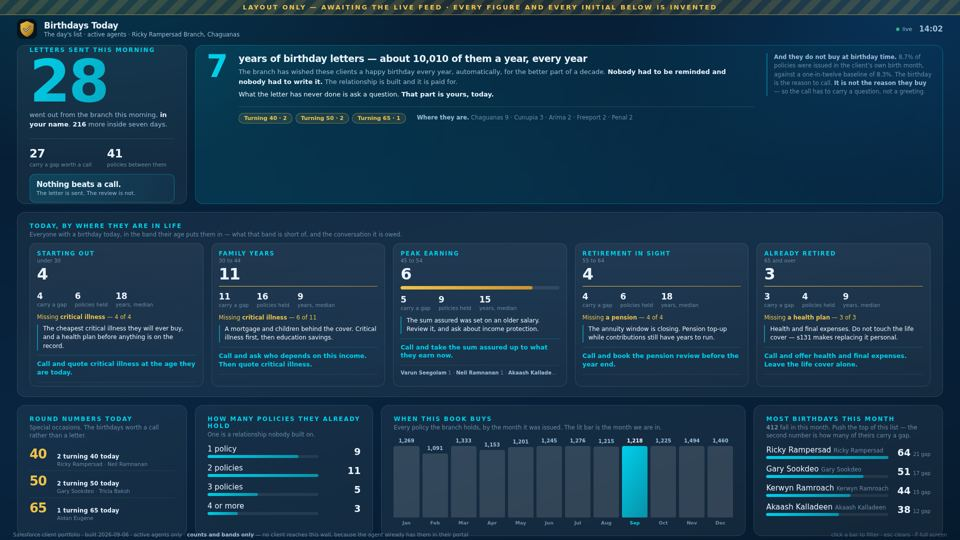
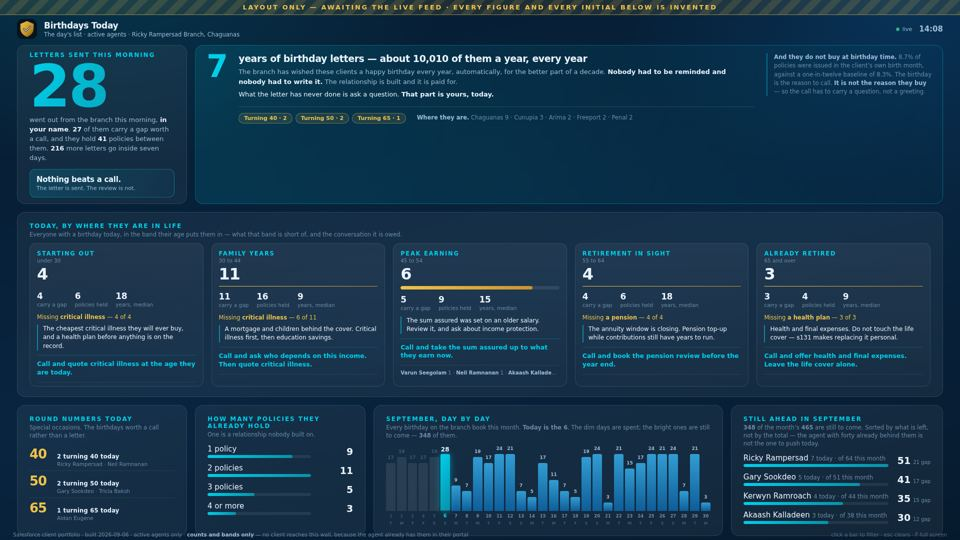
Make the horizon today and the rest of the month, day by day
The twelve-month graph is gone. The branch's horizon is not the year: an agent
standing in front of the screen on the sixth wants to know what today is and
what is left before the month runs out, and January to December answers neither.

THE MONTH, DAY BY DAY. One column per day, taken from the month itself so the
thirty first of a long month is never silently dropped. Spent days are dimmed
rather than removed, because the shape of a month half gone is the point of
looking at it. Today is lit. The days ahead are the runway, and the caption
counts them — three hundred and forty eight still to come out of the month's
four hundred and sixty five. Weekday letters underneath, so a Saturday reads as
a Saturday.

AND THE LEADERBOARD SORTS BY WHAT IS LEFT, not by the month's total. The agent
with forty birthdays already behind them is not the one to push today. Each row
now carries three things: how many are still to come, how many of those are
today, and the month's total behind it.

Also dropped: the two stats in the hero. Every band card says how many carry a
gap and how many policies they hold, so the hero was repeating the wall back to
itself; it says it once now, in the sentence about this morning's letters.

ONE BUG THE RENDER CAUGHT. The hero was announcing that twenty eight clients
hold 0 policies between them — the total was being read one line above where it
was assigned, and var hoists, so it printed the confident zero rather than
[…]

diff --git a/intelligence/wall/book.html b/intelligence/wall/book.html
@@ -267,16 +267,27 @@
   .years .yfind b{color:var(--dim);font-weight:600}
 
   /* twelve months, as a strip rather than twelve rows */
-  .mrows{display:grid;grid-template-columns:repeat(12,1fr);gap:6px;align-items:end;
+  /* A DAY STRIP, NOT A YEAR. The wall's horizon is today and the rest of this
+     month: an agent standing in front of it on the sixth wants to know what
+     today is and what is left before the month runs out. Thirty one columns
+     rather than twelve, spent days dimmed, today lit — so the runway is the
+     bright part of the picture and the part already gone is visibly gone. */
+  .mrows{display:grid;grid-auto-flow:column;grid-auto-columns:1fr;gap:3px;align-items:end;
     flex:1;min-height:0;padding-top:4px}
   .mcol{display:flex;flex-direction:column;justify-content:flex-end;height:100%;gap:5px}
-  .mcol .bar{background:rgba(255,255,255,.13);border-radius:4px 4px 2px 2px;min-height:3px}
-  .mcol.now .bar{background:var(--grad-teal)}
-  .mcol .ml{font:600 9.5px var(--font-b);color:var(--faint);text-align:center}
-  .mcol.now .ml{color:var(--teal);font-weight:800}
-  .mcol .mv{font:700 10px var(--font-d);color:var(--dim);text-align:center;
+  .mcol .bar{background:linear-gradient(180deg,rgba(55,177,236,.85),rgba(11,127,212,.6));
+    border-radius:3px 3px 1px 1px;min-height:2px}
+  .mcol.past .bar{background:rgba(255,255,255,.09)}
+  .mcol.now .bar{background:var(--grad-teal);box-shadow:0 0 14px rgba(0,207,234,.5)}
+  .mcol .ml{font:600 8.5px var(--font-b);color:var(--faint);text-align:center;
     font-variant-numeric:tabular-nums}
-  .mcol.now .mv{color:var(--ink)}
+  .mcol.past .ml{opacity:.38}
+  .mcol.now .ml{color:var(--teal);font-weight:800;font-size:10px}
+  .mcol .mv{font:700 9px var(--font-d);color:var(--dim);text-align:center;
+    font-variant-numeric:tabular-nums;min-height:11px}
+  .mcol.past .mv{opacity:.30}
+  .mcol.now .mv{color:var(--ink);font-size:12px}
+  .mcol .dw{font:600 7.5px var(--font-b);color:var(--faint);text-align:center;opacity:.5}
 
   /* FIVE BANDS ACROSS, ALWAYS THE SAME FIVE. An empty band is drawn dim rather
      than dropped: panels that move around from day to day cannot be read at a
@@ -442,10 +453,6 @@
     <h3 id="heroKick">Letters sent this morning</h3>
     <div class="big" id="heroN">&mdash;</div>
     <div class="cap2" id="heroCap"></div>
-    <div class="split">
-      <div><div class="v" id="heroGap">&mdash;</div><div class="k">carry a gap worth a call</div></div>
-      <div><div class="v" id="heroPol">&mdash;</div><div class="k">policies between them</div></div>
-    </div>
     <div class="callout">Nothing beats a call.<span>The letter is sent. The review is not.</span></div>
   </section>
 
@@ -479,12 +486,11 @@
     <p class="cap">One is a relationship nobody built on.</p>
     <div class="rows" id="rPol"></div></section>
 
-  <section class="card season"><h3>When this book buys</h3>
-    <p class="cap">Every policy the branch holds, by the month it was issued. The lit bar
-      is the month we are in.</p>
-    <div class="mrows" id="rSeason"></div></section>
+  <section class="card season"><h3 id="dHead">The month, day by day</h3>
+    <p class="cap" id="dCap"></p>
+    <div class="mrows" id="rDays"></div></section>
 
-  <section class="card month"><h3>Most birthdays this month</h3>
+  <section class="card month"><h3 id="mHead">Still ahead this month</h3>
     <p class="cap" id="monthCap"></p>
     <div class="rows" id="rMonth"></div></section>
 </main>
@@ -607,7 +613,7 @@ function paint(){
       + 'workbook carries them.';
     $("#bMiles").innerHTML=''; $("#heroWhere").innerHTML='';
     $("#yFind").innerHTML='';
-    ["#rPol","#rSeason","#rMonth","#mList"].forEach(function(x){ $(x).innerHTML=""; });
+    ["#rPol","#rDays","#rMonth","#mList"].forEach(function(x){ $(x).innerHTML=""; });
     $("#monthCap").textContent="";
     $("#cList").innerHTML='<p class="none">Set the Salesforce credentials in '
       + '<b>SalesforceSync.gs</b>, deploy the script, and paste the <b>/exec</b> URL into '
@@ -622,11 +628,15 @@ function paint(){
   $("#heroKick").textContent="Letters sent this morning";
   $("#heroN").style.cssText="";
   $("#heroN").textContent=n(T.n);
+  /* Computed before it is read. It was declared below this line and var hoists,
+     so the wall confidently reported that twenty eight clients hold 0 policies
+     between them — which is the kind of wrong a wall states with a straight
+     face. */
+  var polN=(T.bands||[]).reduce(function(a,b){ return a+(b.policies||0); },0);
   $("#heroCap").innerHTML='went out from the branch this morning, <b>in your name</b>. '
-    + '<b>'+n(T.week)+'</b> more inside seven days.';
-  $("#heroGap").textContent=n(T.withGap);
-  var pol=(T.policiesHeld||[]).reduce(function(a,x){ return a+x.n; },0);
-  $("#heroPol").textContent=n((T.bands||[]).reduce(function(a,b){ return a+(b.policies||0); },0));
+    + '<b>'+n(T.withGap)+'</b> of them carry a gap worth a call, and they hold <b>'
+    + n(polN)+'</b> policies between them. <b>'+n(T.week)+'</b> more letters go inside '
+    + 'seven days.';
   var MI=T.milestones||[];
   $("#bMiles").innerHTML = MI.length
     ? MI.map(function(m){ return '<span class="mile">'+esc(m.k)+' &middot; '+n(m.n)+'</span>'; }).join("")
@@ -690,38 +700,49 @@ function paint(){
       + n(T.week)+' do inside the next seven days.</p>';
 
   bars($("#rPol"),  T.policiesHeld||[], "pol",  "teal");
-  season($("#rSeason"), D.season||[]);
 
   var M=(D.month||{});
-  $("#monthCap").innerHTML='<b>'+n(M.n)+'</b> fall in this month. Push the top of this '
-    + 'list — the second number is how many of theirs carry a gap.';
+  $("#dHead").textContent=(M.name||'This month')+', day by day';
+  $("#dCap").innerHTML='Every birthday on the branch book this month. <b>Today is the '
+    + n(M.day)+'</b>. The dim days are spent; the bright ones are still to come — <b>'
+    + n(M.ahead)+'</b> of them.';
+  daybars($("#rDays"), M.days||[]);
+
+  $("#mHead").textContent='Still ahead in '+(M.name||'this month');
+  $("#monthCap").innerHTML='<b>'+n(M.ahead)+'</b> of the month&rsquo;s <b>'+n(M.n)
+    + '</b> are still to come. Sorted by what is left, not by the total &mdash; the agent '
+    + 'with forty already behind them is not the one to push today.';
   monthBars($("#rMonth"), (M.byAgent||[]).slice(0,4));
 }
 
-/* Twelve months as a strip. A wall reads a shape faster than it reads a column
-   of numbers, and the only thing worth reading here is the shape. */
-function season(host,list){
+/* The month as a strip of days. Spent days are dimmed rather than dropped: the
+   shape of a month half gone is the point of looking at it. */
+function daybars(host,list){
   if(!host) return;
   var max=0; list.forEach(function(x){ if(x.n>max) max=x.n; });
   host.innerHTML=list.map(function(x){
-    return '<div class="mcol'+(x.now?' now':'')+'">'
-      + '<div class="mv">'+n(x.n)+'</div>'
-      + '<div class="bar" style="height:'+(max?Math.max(3,x.n/max*100):3).toFixed(1)+'%"></div>'
-      + '<div class="ml">'+esc(x.k.slice(0,3))+'</div></div>';
+    return '<div class="mcol'+(x.past?' past':'')+(x.today?' now':'')+'">'
+      + '<div class="mv">'+(x.n||'')+'</div>'
+      + '<div class="bar" style="height:'+(max?Math.max(2,x.n/max*100):2).toFixed(1)+'%"></div>'
+      + '<div class="ml">'+x.d+'</div>'
+      + '<div class="dw">'+esc(x.dow)+'</div></div>';
   }).join("");
 }
 
 /* The month leaderboard carries two numbers per row, so it cannot use bars() */
 function monthBars(host,list){
   if(!host) return;
-  var max=0; list.forEach(function(x){ if(x.n>max) max=x.n; });
+  var max=0; list.forEach(function(x){ if((x.ahead||0)>max) max=x.ahead||0; });
   host.innerHTML=list.map(function(x){
     var sel=FILTER&&FILTER.dim==="agent"&&FILTER.key===x.k;
+    /* The bar is what is still ahead; the number beside it is the month total,
+       so an agent can see both what is left and what it is out of. */
     return '<div class="row'+(sel?' sel':'')+'" data-dim="agent" data-key="'+esc(x.k)+'">'
-      + '<div><div class="lbl">'+esc(x.k)+' <em>'+esc(x.unit||"")+'</em></div>'
+      + '<div><div class="lbl">'+esc(x.k)+' <em>'+(x.today?x.today+' today · ':'')
+      +   'of '+n(x.n)+' this month</em></div>'
       + '<div class="track"><i class="teal" style="width:'
-      + (max?x.n/max*100:0).toFixed(1)+'%"></i></div></div>'
-      + '<div class="val">'+n(x.n)+(x.gap?'<small>'+n(x.gap)+' gap</small>':'')+'</div></div>';
+      + (max?(x.ahead||0)/max*100:0).toFixed(1)+'%"></i></div></div>'
+      + '<div class="val">'+n(x.ahead||0)+(x.gap?'<small>'+n(x.gap)+' gap</small>':'')+'</div></div>';
   }).join("");
   Array.prototype.forEach.call(host.querySelectorAll(".row[data-dim]"),function(el){
     el.onclick=function(){

diff --git a/INTELLIGENCE-SETUP.md b/INTELLIGENCE-SETUP.md
@@ -976,6 +976,27 @@ agent is worse than none.
 `Relationship_Groups__c` is the right home for it and it is empty. If the branch
 starts populating it, the wall can read it.
 
+#### The horizon is today and the rest of this month
+
+The wall carried a twelve-month graph of when the book buys. It does not any
+more, because the branch's horizon is not the year: an agent standing in front
+of the screen on the sixth wants to know what today is and what is left before
+the month runs out, and January to December answers neither.
+
+**The month, day by day.** One column per day — thirty or thirty-one, taken from
+the month itself so the last day of a long month is never silently dropped.
+Spent days are dimmed rather than removed, because the shape of a month half
+gone is the point of looking at it; today is lit; the days ahead are the runway.
+Weekday letters underneath, so a Saturday reads as a Saturday.
+
+**Still ahead this month, by agent** — and sorted by what is left rather than by
+the month's total. The agent with forty birthdays already behind them is not the
+one to push today. Each row shows how many are still to come, how many of those
+are today, and the month's total behind it.
+
+(If the buying-season graph is wanted back, it is four lines in the builder —
+November and December were the peak, 1,494 and 1,460 against February's 1,091.)
+
 #### The three panels underneath
 
 **Most birthdays this month, by agent** — the branch asked to see who has the
